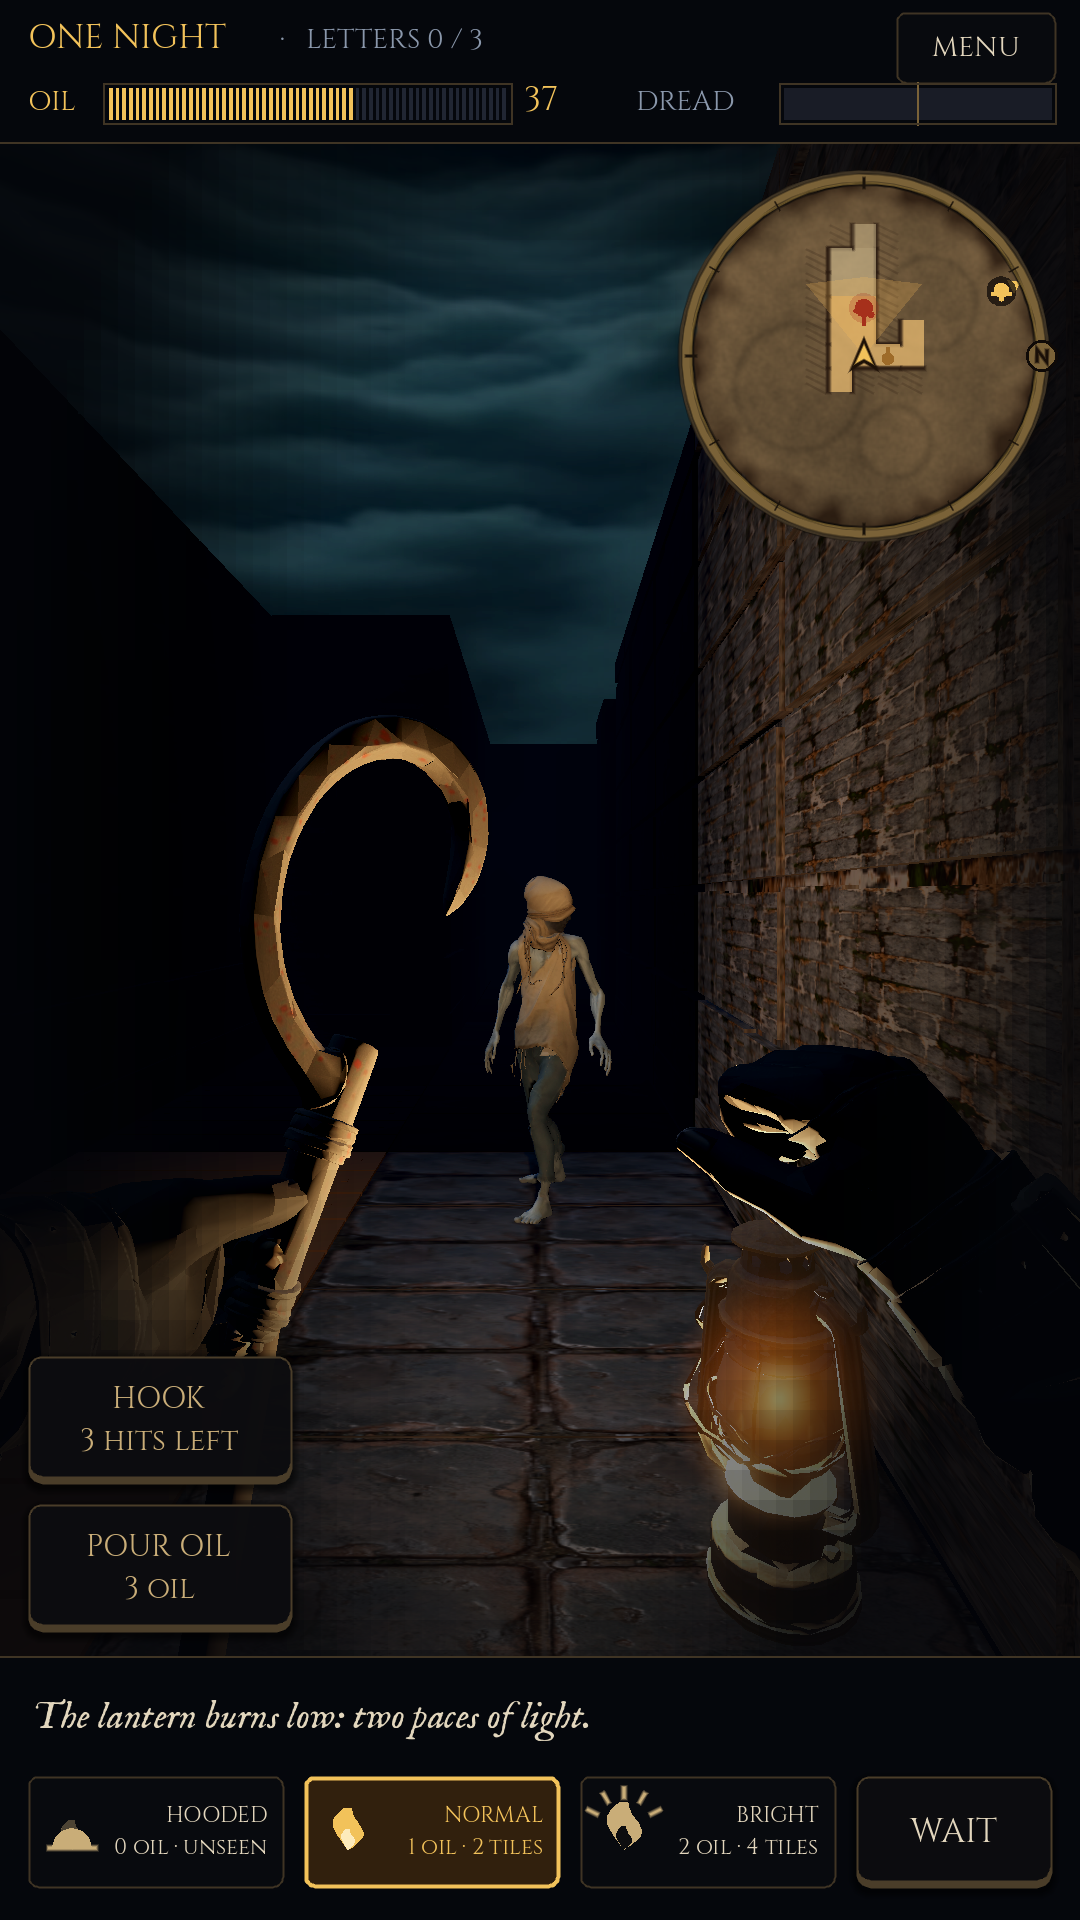
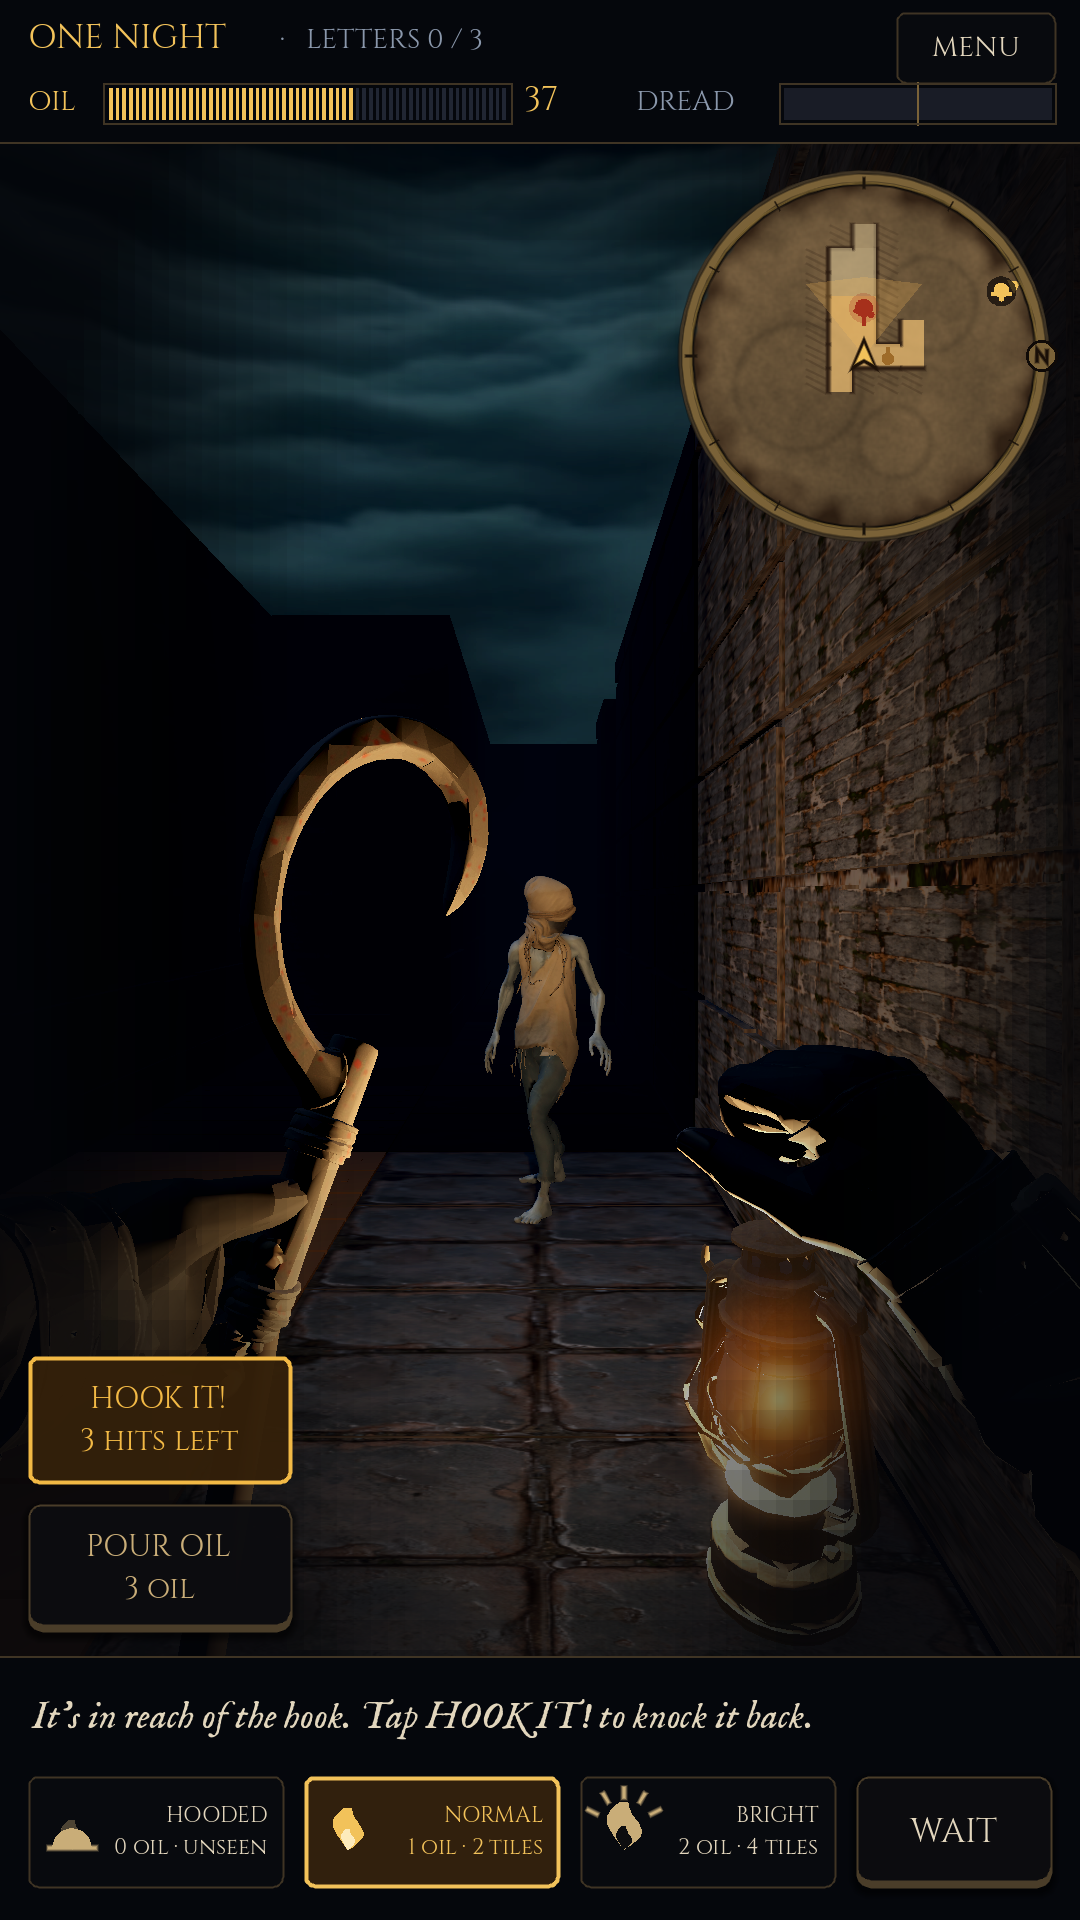
Review fix C: HOOK glows and reads HOOK IT! when a seen thrall is in reach (#64)
* Rig pipeline for animated 3D horrors + low-oil lantern sputter

rig_horror.gd drives a Meshy-rigged body from the rules' state (idle, walk,
crouch, lunge, dead, rise); tools/bake_clips.gd bakes clip GLBs into one
AnimationLibrary. Looks only switch to a rig once its GLB exists, so today's
build is unchanged apart from the lantern guttering at 12 oil or less.

Claude-Session: https://claude.ai/code/session_01V3sbxKkfZnVJvnhwbtykWs

* Fully 3D horrors and hands: rigged Meshy thralls + bride, 3D lantern arm and boathook

Four faceless Meshy bodies on the humanoid rig (nightmare, hooded, dock woman,
bride) with real clips driven by the rules: idle, mummy-stagger walk, zombie
scream as the lunge tell, attack, fall dead, arise. Corpses lie in the dead
pose and get up. The bride always turns to you. Your right arm holds a 3D
lantern with the light and glow inside the globe and a pendulum swing; the
left arm shows the boathook while you carry one. Removed the faced thrall.glb
and rigid stalker.glb; painted cards leave the rotation. 250 Meshy credits.

Claude-Session: https://claude.ai/code/session_01V3sbxKkfZnVJvnhwbtykWs

* Review fixes: pause hidden horrors' animation, dead pose without a blend, find the corpse by what it is

Claude-Session: https://claude.ai/code/session_01V3sbxKkfZnVJvnhwbtykWs

* Keep a rise playing out of sight; pause hidden rigs after they're posed

Claude-Session: https://claude.ai/code/session_01V3sbxKkfZnVJvnhwbtykWs
[…]

Changed region(s): [[0.0, 0.6875, 0.275, 0.7812], [0.0306, 0.875, 0.7333, 0.9062], [0.4889, 0.4688, 0.5194, 0.5]]

diff --git a/docs/HANDOFF_LOG.md b/docs/HANDOFF_LOG.md
@@ -653,3 +653,9 @@ From the mock review: one map with fixed walls got learned by night three, and n
 ## Review fix B: the chart says which way (Nov 26)
 - "The flame gutters. Something is near." used to say nothing about where. Now each unseen awake thrall or bride within `Fog.FLICKER_RANGE` (3, any wall) puts a red arc and arrowhead on the chart's rim pointing its way: `Fog.near_unseen()`, `Night.flicker_from()`, drawn in `_draw_map`. When dread makes the flame lie (`fake_flicker`), a mark appears from a direction picked by turn and seed: the chart lies too.
 - No sound from that side: close-up thralls are silent by design (`Night.silent`, QUIET_NEAR), so the chart carries it. Capture: `FLICKER MAP PASS`, render `fp_flicker_map.png`. Test `test_flicker_says_which_way`.
+
+## Review fix C: teach the hook (Nov 26)
+- The first-timer review died with all 3 hook hits unused: nothing said "swing now". `Night.hook_target()` returns the thrall a swing would hit (first one within `HOOK_REACH` ahead, short of a wall); `hook()` uses it, so the glow and the swing always agree.
+- The view lights HOOK (amber, `UI.lit`), relabels it HOOK IT!, pulses it, and the status line says it's in reach, but only when that thrall stands in LIT fog and isn't a lying corpse: a hidden one never lights the button, or the button would give it away. The field note says what the glow means.
+- Capture: `HOOK GLOW PASS` (lit with a thrall 2 ahead, out once the hit knocks it to 3), render `fp_thrall.png`. Test `test_hook_target_matches_the_swing`.
+- Gotcha: `tools/test.sh` doesn't load `fp_view.gd`, so a type-inference parse error there only shows in the capture (or `--check-only`). Run one of those after view edits.

diff --git a/CLAUDE.md b/CLAUDE.md
@@ -48,6 +48,7 @@ Search it for a system before you change it.
 - Nov 26 review fix A: the first grab each night tears free (-10 oil, it staggers back); the second kills. `Night.torn_free`.
   `docs/HANDOFF_LOG.md` "Review fix A".
 - Nov 26 review fix B: the flame gutters and a red mark on the chart rim points at the unseen thing (`Night.flicker_from`).
+- Nov 26 review fix C: HOOK glows and reads HOOK IT! while a seen thrall is in the hook's reach (`Night.hook_target`).
 - Nov 24: Eyes (`docs/EYES.md`): a cloud session can run the night, tap buttons, step, read the HUD
   and screenshot it. Copied from godot-game-starter (Duff: "Add eyes to lethemoor").
 - Builds: `dev` release APK (https://github.com/duffpowell-commits/lethemoor/releases/tag/dev) and

diff --git a/STATUS.md b/STATUS.md
@@ -59,6 +59,7 @@ Open: PR #33 (art generation guide, docs). Draft PR #31 (Duff, Nov 20: the bell 
 
 ## Changelog
 
+- Nov 26: with the boathook in hand, the HOOK button glows and reads HOOK IT! whenever a thrall you can see is within its 2-tile reach.
 - Nov 26: when the flame gutters, a red mark on the chart's rim points to whatever unseen thing is near (it lies too when dread is high).
 
 - Nov 26: the first thrall to grab you each night doesn't kill: you tear free, spilling 10 oil, and it staggers back. The second grab kills. Expert bot 41% -> 50% won; more deaths now come from running out of oil.
